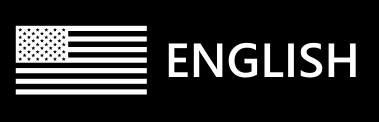
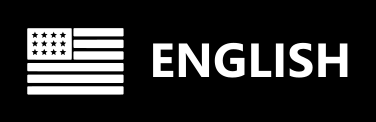
versao ingles

Changed region(s): [[0.0293, 0.1967, 0.9654, 0.7869]]

diff --git a/README_EN.md b/README_EN.md
@@ -12,7 +12,7 @@
 - 🎶 My biggest hobby is music.
 
 <div align="center">
-      <a href="https://github.com/alinerc27/alinerc27/blob/main/README.md" target="_blank"><img height="28" src="img/portugues2.png" alt="readme em portugues">      
+      <a href="https://github.com/alinerc27/alinerc27/blob/main/README.md" target="_blank"><img height="28" src="img/portugues.png" alt="readme em portugues">      
       <a href="mailto:aline.rosa.cruz@gmail.com" target="_blank"><img src="https://img.shields.io/badge/Gmail-D14836?style=for-the-badge&logo=gmail&logoColor=white" alt="Email de Aline Rosa Cruz">
       <a href="https://www.linkedin.com/in/aline-rosa-cruz/" target="_blank"><img src="https://img.shields.io/badge/-LinkedIn-%230077B5?style=for-the-badge&logo=linkedin&logoColor=white" alt="Linkedin de Aline Rosa Cruz"></a>
 </div>

diff --git a/README.md b/README.md
@@ -12,7 +12,7 @@
 - 🎶 Meu maior hobby é a música.
 
 <div align="center">
-      <a href="https://github.com/alinerc27/alinerc27/blob/main/README_EN.md" target="_blank"><img height="28" src="img/ingles3.png" alt="readme in english">      
+      <a href="https://github.com/alinerc27/alinerc27/blob/main/README_EN.md" target="_blank"><img height="28" src="img/ingles.png" alt="readme in english">      
       <a href="mailto:aline.rosa.cruz@gmail.com" target="_blank"><img src="https://img.shields.io/badge/Gmail-D14836?style=for-the-badge&logo=gmail&logoColor=white" alt="Email de Aline Rosa Cruz">
       <a href="https://www.linkedin.com/in/aline-rosa-cruz/" target="_blank"><img src="https://img.shields.io/badge/-LinkedIn-%230077B5?style=for-the-badge&logo=linkedin&logoColor=white" alt="Linkedin de Aline Rosa Cruz"></a>
 </div>
